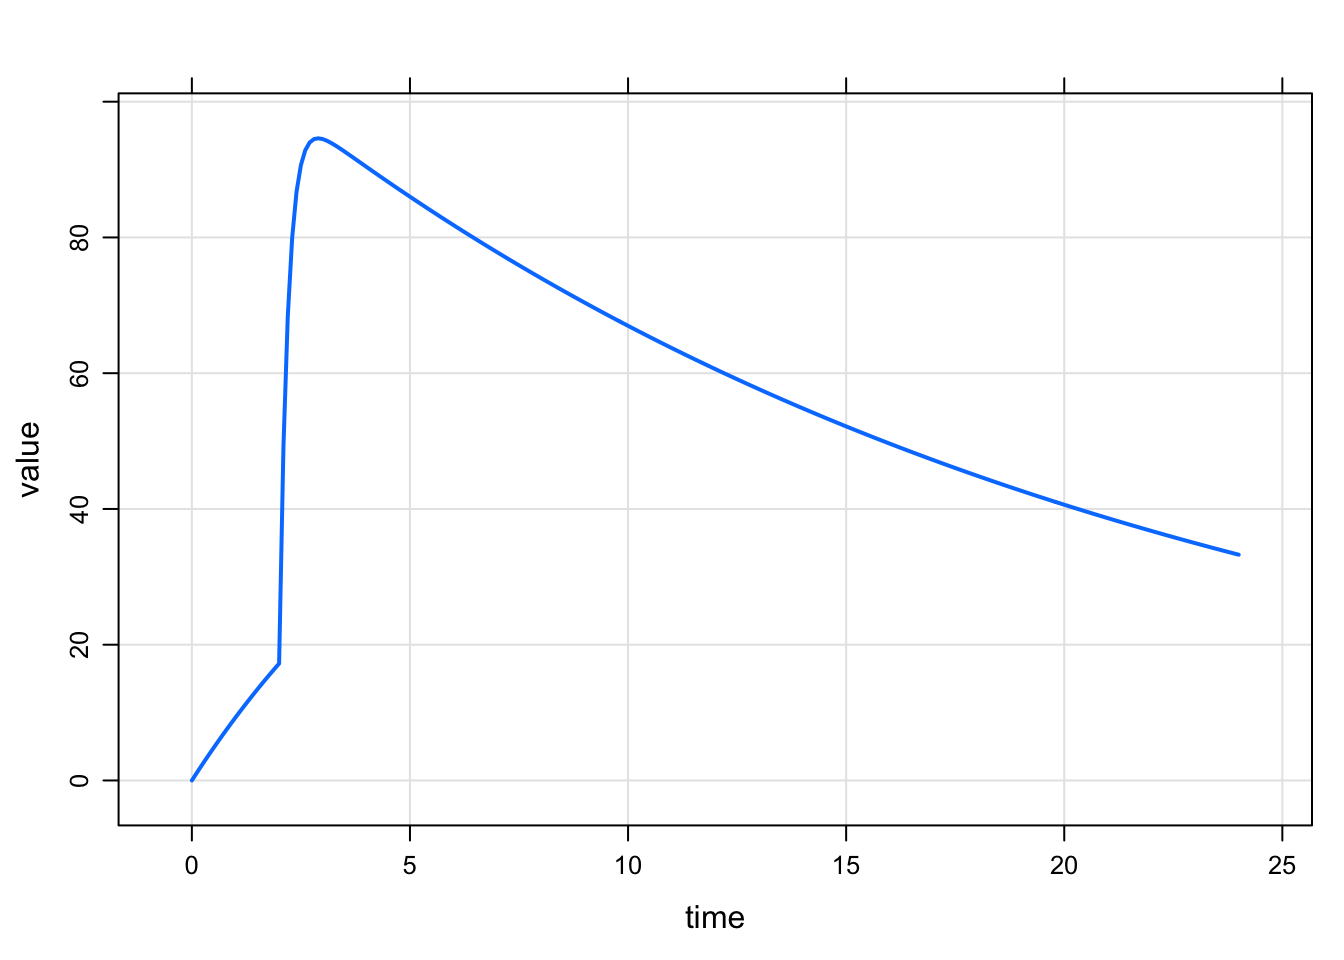
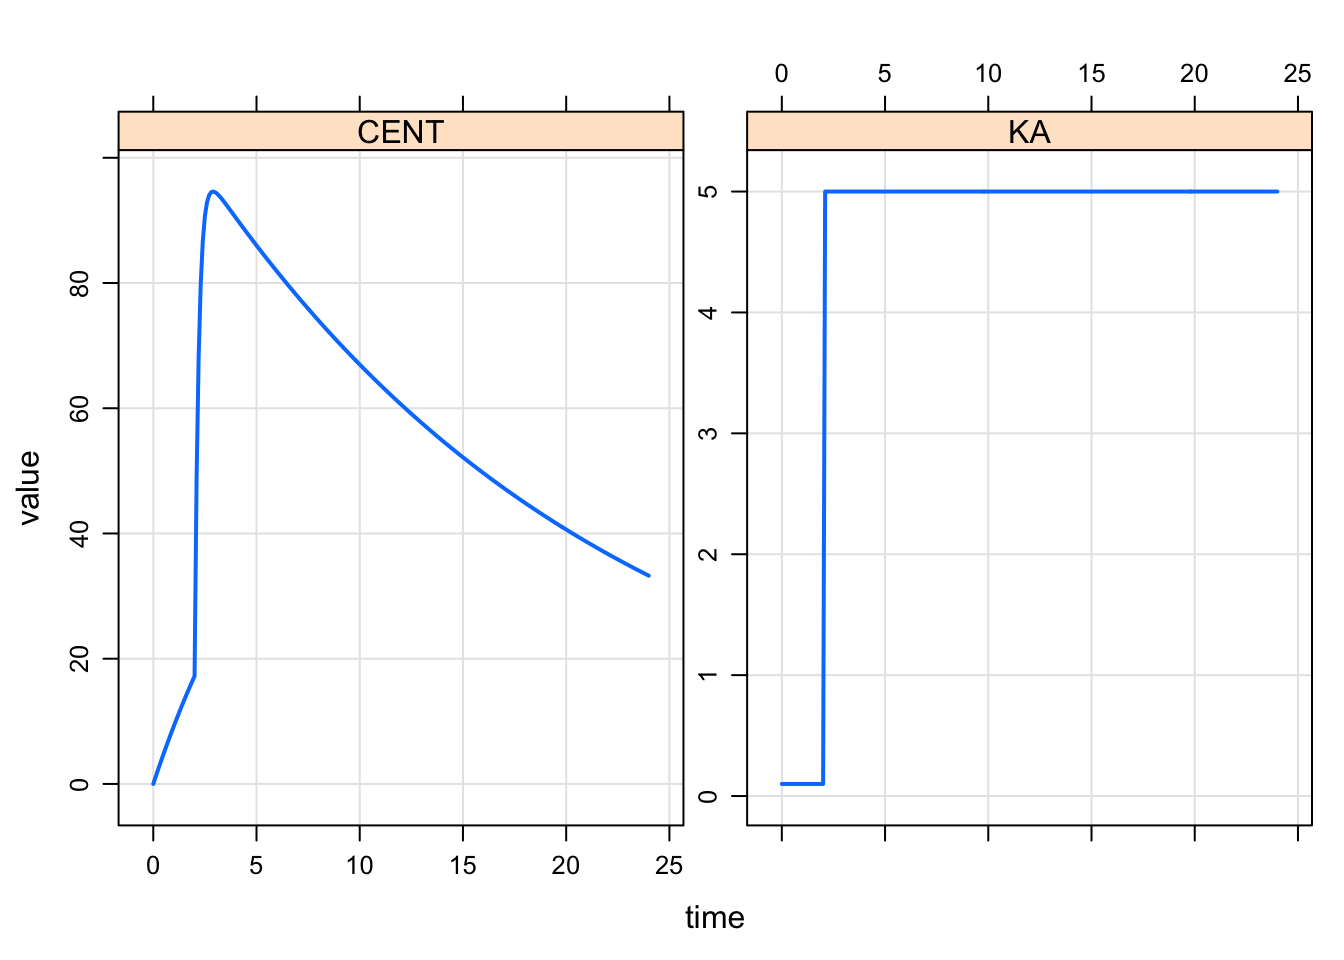
re=build vignette

diff --git a/source/content/post/2018-09-02-modeled-interventions-in-mrgsolve.html b/source/content/post/2018-09-02-modeled-interventions-in-mrgsolve.html
@@ -25,10 +25,12 @@ $PARAM CL = 1, V = 20, KA1 = 0.1, KA2 = 0.5, KA3 = 5
 
 $PKMODEL cmt = &quot;GUT CENT&quot;, depot = TRUE
 
+$PREAMBLE capture KA = KA1;
+
 $MAIN
 
 if(EVID==1) {
-  double KA = KA1;
+  KA = KA1;
   self.mevent(TIME + 2, 33);
 }
 
@@ -43,7 +45,7 @@ mod &lt;- mcode(&quot;mevent&quot;, code)</code></pre>
 <pre class="r"><code>mod %&gt;% 
   ev(amt = 100) %&gt;% 
   mrgsim(end = 24, delta = 0.1) %&gt;%
-  plot(CENT~time)</code></pre>
+  plot(CENT+KA~time)</code></pre>
 <p><img src="/post/2018-09-02-modeled-interventions-in-mrgsolve_files/figure-html/unnamed-chunk-2-1.png" width="672" /></p>
 <p>We can refine this even more with an additional intervention time for an intermediate value of <code>KA</code></p>
 <pre class="r"><code>code &lt;- &#39;
@@ -51,10 +53,12 @@ $PARAM CL = 1, V = 20, KA1 = 0.1, KA2 = 0.5, KA3 = 5
 
 $PKMODEL cmt = &quot;GUT CENT&quot;, depot = TRUE
 
+$PREAMBLE capture KA = KA1;
+
 $MAIN
 
 if(EVID==1) {
-  double KA = KA1;
+  KA = KA1;
   self.mevent(TIME + 1, 33);
   self.mevent(TIME + 2, 34);
 }
@@ -74,13 +78,13 @@ if(EVID==34) KA = KA3;
 <pre class="r"><code>mod %&gt;% 
   ev(amt = 100) %&gt;% 
   mrgsim(end = 12, delta = 0.1) %&gt;%
-  plot(CENT~time)</code></pre>
+  plot(CENT+KA~time)</code></pre>
 <p><img src="/post/2018-09-02-modeled-interventions-in-mrgsolve_files/figure-html/unnamed-chunk-4-1.png" width="672" /></p>
 <p>Now we have the two change points implemented. Multiple doses would look like this:</p>
 <pre class="r"><code>mod %&gt;% 
   ev(amt = 100, ii = 24, addl = 2) %&gt;% 
   mrgsim(end = 120, delta = 0.1) %&gt;%
-  plot(CENT~time)</code></pre>
+  plot(CENT+KA~time)</code></pre>
 <p><img src="/post/2018-09-02-modeled-interventions-in-mrgsolve_files/figure-html/unnamed-chunk-5-1.png" width="672" /></p>
 </div>
 <div id="example-modeled-dosing-events" class="section level1">
